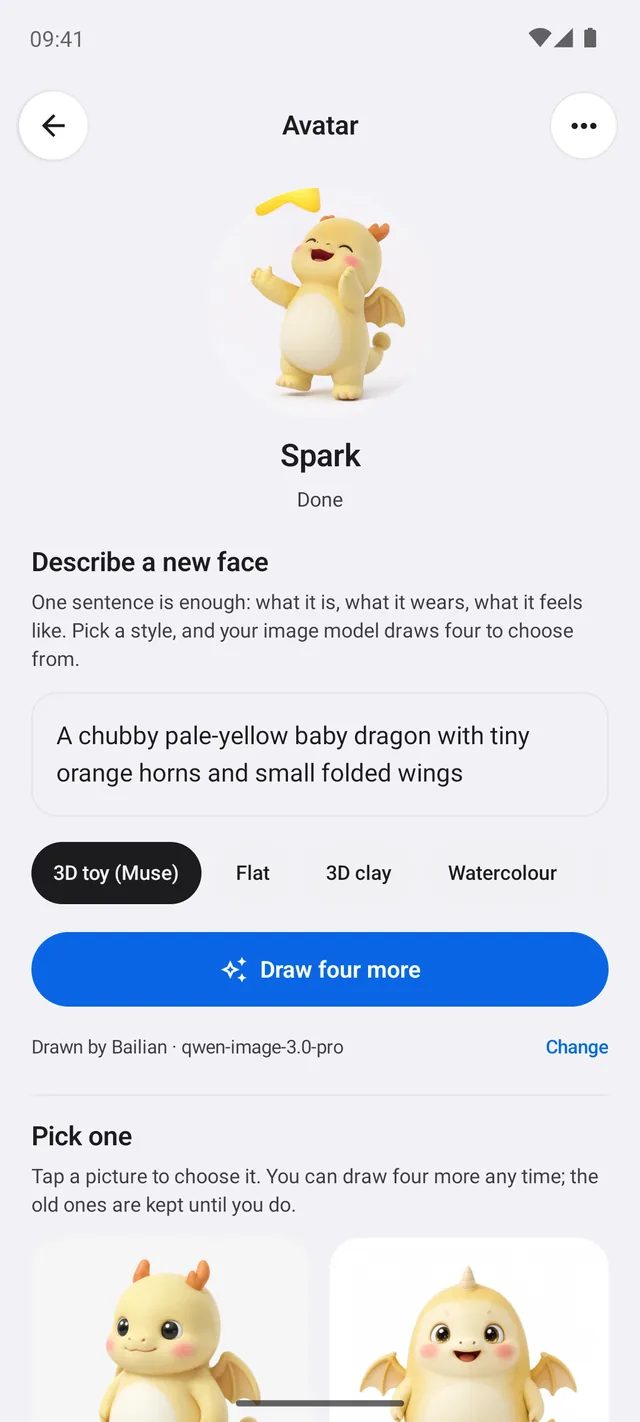
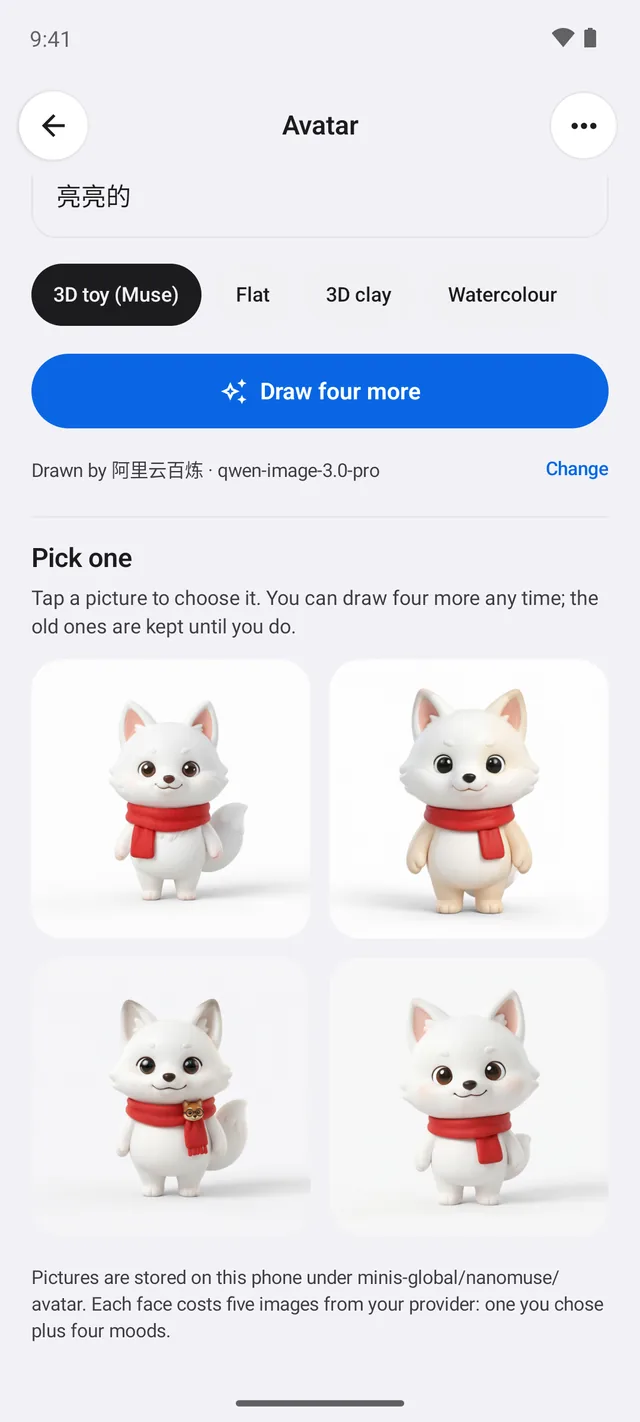
Site: one positioning line, no status pills, own-Muse base, shots per language
The hero and the og:description carry the positioning sentence alone; the
eyebrow says no server, no account instead of Android today. The four pillars
lose their today/已有 pills (and the CSS for them); Fully open adds the base to
build your own Muse on. The comparison is retitled Compared with Muse and
OpenMinis / 和 Muse、OpenMinis 的对比, drops the version tails and gains the
Avatar row from the README. Avatar copy stops counting takes and says look
instead of face outside the version list.

Screens: approval and avatar retaken on the current build with the agent
called nanoMuse (avatar page mid-pick); each screen now has a Chinese and an
English image, shown by data-lang.

diff --git a/index.html b/index.html
@@ -6,7 +6,7 @@
     <title>nanoMuse — a fully open-source, Muse-style personal agent for every device you own</title>
     <meta name="description" content="nanoMuse is a fully open-source, Muse-style personal agent for every device you own. Today it runs entirely on your Android phone with your own model: a shell, a browser, MCP, skills, goals on a schedule, a feed written for you, and a stop before anything you could not undo. Next: the phone's screen as a hand, then the phone drives your PC." />
     <meta property="og:title" content="nanoMuse — a fully open-source, Muse-style personal agent for every device you own" />
-    <meta property="og:description" content="A fully open-source, Muse-style personal agent for every device you own. Android today." />
+    <meta property="og:description" content="A fully open-source, Muse-style personal agent for every device you own." />
     <meta property="og:image" content="https://nanomuse.cn/assets/social-card.png" />
     <meta property="og:image:width" content="1200" />
     <meta property="og:image:height" content="630" />
@@ -39,8 +39,8 @@
     <main id="top">
       <section class="hero">
         <p class="eyebrow">
-          <i class="en">Fully open source · GPL-3.0 · Android today</i>
-          <i class="zh">完全开源 · GPL-3.0 · 目前 Android 版</i>
+          <i class="en">Fully open source · GPL-3.0 · No server, no account</i>
+          <i class="zh">完全开源 · GPL-3.0 · 没有服务器，不用注册</i>
         </p>
         <h1>
           <i class="en">A fully open-source,<br />Muse-style personal agent<br />for every device you own.</i>
@@ -49,13 +49,13 @@
         <p class="lede">
           <i class="en">
             One agent with a name and a look of its own that does things instead of answering questions, keeps working while
-            the app is closed, remembers you, and stops to ask before anything you could not undo. Today the whole
-            agent runs on your Android phone with a model you bring; it already works the apps that have no API with
-            its own hands and drives your computer from the phone; every device you own comes after that.
+            the app is closed, remembers you, and stops to ask before anything you could not undo. The whole agent runs
+            on your phone with a model you bring; it works the apps that have no API with its own hands, drives your
+            computer from the phone, and is a base you can build your own Muse on. Every device you own comes after that.
           </i>
           <i class="zh">
-            一个有名字、有自己形象的智能体：不只回答问题，而是动手做事；App 关掉了也继续干活；记得你；遇到无法撤销的操作会先停下来问你。目前整个智能体跑在你的
-            Android 手机上，模型由你自己带；它已经能动手操作那些没有 API 的 App、能从手机操作你的电脑；再之后是你的每一台设备。
+            一个有名字、有自己形象的智能体：不只回答问题，而是动手做事；App 关掉了也继续干活；记得你；遇到无法撤销的操作会先停下来问你。整个智能体跑在你的手机上，模型由你自己带；它能动手操作那些没有
+            API 的 App，能从手机操作你的电脑，也能让你在它的基础上定制一个属于自己的 Muse；再之后是你的每一台设备。
           </i>
         </p>
         <div class="cta">
@@ -82,32 +82,35 @@
 
       <section class="shots" aria-label="Screens">
         <figure>
-          <img src="assets/chat-approval.webp" alt="Chat: the agent stops before deleting files and asks" width="640" height="1422" loading="lazy" />
+          <img class="en" src="assets/chat-approval.webp" alt="Chat: before deleting in the workspace, the agent stops and asks" width="640" height="1422" loading="lazy" />
+          <img class="zh" src="assets/chat-approval-zh.webp" alt="对话：删工作区里的东西之前，停下来问你" width="640" height="1422" loading="lazy" />
           <figcaption><i class="en">It asks first</i><i class="zh">关键处先问你</i></figcaption>
         </figure>
         <figure>
-          <img src="assets/feed.webp" alt="Feed: three posts written for you this morning" width="640" height="1422" loading="lazy" />
+          <img class="en" src="assets/feed.webp" alt="Feed: three posts written for you this morning" width="640" height="1422" loading="lazy" />
+          <img class="zh" src="assets/feed-zh.webp" alt="动态：今天早上写给你的三条" width="640" height="1422" loading="lazy" />
           <figcaption><i class="en">A feed written for you</i><i class="zh">写给你的动态</i></figcaption>
         </figure>
         <figure>
-          <img src="assets/goals.webp" alt="Goals: a tracked goal and two routines" width="640" height="1422" loading="lazy" />
+          <img class="en" src="assets/goals.webp" alt="Goals: a tracked goal and two routines" width="640" height="1422" loading="lazy" />
+          <img class="zh" src="assets/goals-zh.webp" alt="目标：一个追踪中的目标和一条例程" width="640" height="1422" loading="lazy" />
           <figcaption><i class="en">Goals, on a schedule</i><i class="zh">目标，按时检查</i></figcaption>
         </figure>
         <figure>
-          <img src="assets/avatar.webp" alt="Avatar: describe a look, pick one of four" width="640" height="1422" loading="lazy" />
-          <figcaption><i class="en">A face you choose</i><i class="zh">你挑的脸</i></figcaption>
+          <img class="en" src="assets/avatar.webp" alt="Avatar: describe a look, your image model draws it, pick the one you like" width="640" height="1422" loading="lazy" />
+          <img class="zh" src="assets/avatar-zh.webp" alt="形象：描述一句，你的图像模型来画，你挑一张喜欢的" width="640" height="1422" loading="lazy" />
+          <figcaption><i class="en">A look you choose</i><i class="zh">你挑的形象</i></figcaption>
         </figure>
       </section>
 
       <section class="grid pillars" id="why">
         <h2><i class="en">Why nanoMuse</i><i class="zh">为什么是 nanoMuse</i></h2>
         <p class="sub">
-          <i class="en">Four things define the project. All four are in the app today.</i>
-          <i class="zh">这个项目由四件事定义，四件都已经在 App 里。</i>
+          <i class="en">Four things define the project.</i>
+          <i class="zh">这个项目由四件事定义。</i>
         </p>
         <ul>
           <li>
-            <span class="status now"><i class="en">today</i><i class="zh">已有</i></span>
             <h3><i class="en">Muse-style</i><i class="zh">Muse 风格</i></h3>
             <p>
               <i class="en">One agent, not a toolbox: a name and a look of its own, a first conversation, a feed written for you, goals worked on in the background, memory you can edit, an approval before anything you could not undo.</i>
@@ -115,15 +118,13 @@
             </p>
           </li>
           <li>
-            <span class="status now"><i class="en">today</i><i class="zh">已有</i></span>
             <h3><i class="en">Fully open</i><i class="zh">完全开源</i></h3>
             <p>
-              <i class="en">GPL-3.0-or-later, the whole repository. No closed component, no account, no server you have to trust, no model you have to use. Muse, 豆包 and 千问 are products you are given; nanoMuse is one you own.</i>
-              <i class="zh">整个仓库 GPL-3.0-or-later。没有闭源组件，不用注册账号，不用信任任何服务器，也不绑定任何模型。Muse、豆包、千问是别人给你用的产品；nanoMuse 是你自己拥有的。</i>
+              <i class="en">GPL-3.0-or-later, the whole repository. No closed component, no account, no server you have to trust, no model you have to use. Muse, 豆包 and 千问 are products you are given; nanoMuse is one you own — and a base to build your own Muse on.</i>
+              <i class="zh">整个仓库 GPL-3.0-or-later。没有闭源组件，不用注册账号，不用信任任何服务器，也不绑定任何模型。Muse、豆包、千问是别人给你用的产品；nanoMuse 是你自己拥有的——可以依赖开源定制属于自己的 Muse。</i>
             </p>
           </li>
           <li>
-            <span class="status now"><i class="en">today</i><i class="zh">已有</i></span>
             <h3><i class="en">Any app, API or not</i><i class="zh">通用：有没有 API 都能做</i></h3>
             <p>
               <i class="en">Most of a day in China runs through apps that never had an API. The agent tries a skill, a CLI, an MCP server or the browser first and, when you allow it, the device's own screen — looking at a screenshot and tapping the way you would, never reading the accessibility tree — with the same approvals before paying, sending or deleting. Off by default.</i>
@@ -131,10 +132,9 @@
             </p>
           </li>
           <li>
-            <span class="status now"><i class="en">today</i><i class="zh">已有</i></span>
             <h3><i class="en">Every device</i><i class="zh">多端协同</i></h3>
             <p>
-              <i class="en">One agent, and every device you own is a pair of hands and a front door: say it on the phone, it happens on your PC; say it to your glasses, it happens on both. The phone drives your computer today; a desktop app, iOS, the web on a machine of your own and glasses follow.</i>
+              <i class="en">One agent, and every device you own is a pair of hands and a front door: say it on the phone, it happens on your PC; say it to your glasses, it happens on both. The phone drives your computer already; a desktop app, iOS, the web on a machine of your own and glasses follow.</i>
               <i class="zh">一个智能体，你的每台设备都是它的一双手、一个入口：在手机上说一句，事情在电脑上办好；对眼镜说，两边一起办。手机操作电脑已经能用；之后是桌面 App、iOS、部署在你自己机器上的网页版，还有眼镜。</i>
             </p>
           </li>
@@ -182,8 +182,8 @@
           <li>
             <h3><i class="en">A look of its own</i><i class="zh">有自己的形象</i></h3>
             <p>
-              <i class="en">Describe one, your image model draws four, you pick. It breathes at rest, bobs while it works, tilts when it needs you, pops when a task lands.</i>
-              <i class="zh">描述一句，你的图像模型画四张，你挑一张。休息时呼吸，工作时点头，需要你时歪头，任务完成时跳一下。</i>
+              <i class="en">Describe one, your image model draws it, you pick the one you like. It breathes at rest, bobs while it works, tilts when it needs you, pops when a task lands.</i>
+              <i class="zh">描述一句，你的图像模型来画，你挑一张喜欢的。休息时呼吸，工作时点头，需要你时歪头，任务完成时跳一下。</i>
             </p>
           </li>
         </ul>
@@ -224,7 +224,7 @@
       </section>
 
       <section class="compare" id="compare">
-        <h2><i class="en">Next to Muse and OpenMinis</i><i class="zh">和 Muse、OpenMinis 放在一起看</i></h2>
+        <h2><i class="en">Compared with Muse and OpenMinis</i><i class="zh">和 Muse、OpenMinis 的对比</i></h2>
         <p class="sub">
           <i class="en">Muse is the product it takes its style from; <a href="https://github.com/OpenMinis/OpenMinis" rel="noopener">OpenMinis</a> is the on-device runtime the app is built on.</i>
           <i class="zh">Muse 是它的风格参照；<a href="https://github.com/OpenMinis/OpenMinis" rel="noopener">OpenMinis</a> 是 App 所基于的端侧运行时。</i>
@@ -239,7 +239,7 @@
                 <th><i class="en">Where the agent runs</i><i class="zh">智能体跑在哪</i></th>
                 <td><i class="en">Meta's cloud VM, one per user</i><i class="zh">Meta 的云端 VM，每人一台</i></td>
                 <td><i class="en">The phone it is installed on</i><i class="zh">装了它的那台手机</i></td>
-                <td><i class="en">The phone today; a computer of yours next; wherever you say, later</i><i class="zh">目前在手机上；下一步到你的电脑上；再之后你说在哪就在哪</i></td>
+                <td><i class="en">The phone; a sentence there runs on a computer of yours; wherever you say, later</i><i class="zh">手机上；手机上说一句，能在你的电脑上办；再之后你说在哪就在哪</i></td>
               </tr>
               <tr>
                 <th><i class="en">Shape</i><i class="zh">形状</i></th>
@@ -257,13 +257,19 @@
                 <th><i class="en">Apps without an API</i><i class="zh">没有 API 的 App</i></th>
                 <td><i class="en">Out of reach — the VM never touches your phone</i><i class="zh">碰不到——云端 VM 够不着你的手机</i></td>
                 <td><i class="en">An accessibility CLI the model can call, on Android</i><i class="zh">Android 上有一个模型可以调用的无障碍 CLI</i></td>
-                <td><i class="en">The screen as a hand: screenshots only, APIs tried first, you take over for logins, the same approvals — since 0.1.12</i><i class="zh">把屏幕当手：只看截图，先试 API，登录由你接管，同一套审批——0.1.12 起</i></td>
+                <td><i class="en">The screen as a hand: screenshots only, APIs tried first, you take over for logins, the same approvals</i><i class="zh">把屏幕当手：只看截图，先试 API，登录由你接管，同一套审批</i></td>
               </tr>
               <tr>
                 <th><i class="en">Other devices</i><i class="zh">其他设备</i></th>
                 <td><i class="en">Many clients of one VM; the VM does not touch your devices</i><i class="zh">多个客户端连同一台 VM；VM 不碰你的设备</i></td>
                 <td><i class="en">The one it is installed on</i><i class="zh">只有装了它的那一台</i></td>
-                <td><i class="en">One agent across your devices: the phone drives your PC today, then every device, both ways</i><i class="zh">一个智能体，跨你的每一台设备：手机操作电脑已经能用，之后所有设备双向互通</i></td>
+                <td><i class="en">One agent across your devices: the phone drives your PC already, then every device, both ways</i><i class="zh">一个智能体，跨你的每一台设备：手机操作电脑已经能用，之后所有设备双向互通</i></td>
+              </tr>
+              <tr>
+                <th><i class="en">Avatar</i><i class="zh">形象</i></th>
+                <td><i class="en">A plush figure that changes pose while it works</i><i class="zh">一个干活时会换姿势的毛绒形象</i></td>
+                <td>—</td>
+                <td><i class="en">A look your image model draws and poses, a looping clip per state from your video model; a small dragon, already moving, by default</i><i class="zh">你的图像模型画出并摆好姿势的形象，每个状态一段你的视频模型做的循环短片；默认是一只已经会动的小龙</i></td>
               </tr>
               <tr>
                 <th><i class="en">Models</i><i class="zh">模型</i></th>

diff --git a/style.css b/style.css
@@ -123,11 +123,6 @@ section h2 { text-align: center; }
 section .sub { max-width: 720px; margin: 14px auto 0; text-align: center; color: var(--fg-2); font-size: 16px; }
 .pillars ul { grid-template-columns: repeat(4, 1fr); }
 .pillars li { position: relative; }
-.pillars .status {
-  display: inline-block; margin-bottom: 14px; font-size: 11px; font-weight: 600; letter-spacing: 0.04em;
-  padding: 3px 9px; border-radius: 999px; background: var(--line); color: var(--fg-2);
-}
-.pillars .status.now { background: var(--action); color: var(--action-fg); }
 @media (max-width: 1000px) { .pillars ul { grid-template-columns: repeat(2, 1fr); } }
 @media (max-width: 560px) { .pillars ul { grid-template-columns: 1fr; } }
 
